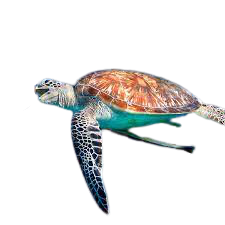
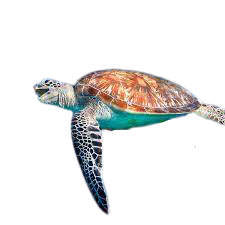
Turtle moved in the aquarium

Changed region(s): [[0.4978, 0.56, 0.8711, 0.6844], [0.7156, 0.5289, 0.8089, 0.5911], [0.1244, 0.3733, 0.1556, 0.4044]]

diff --git a/breatheunderthewater.html b/breatheunderthewater.html
@@ -6,6 +6,7 @@
     <title>breathunderthewater</title>
     <meta name="viewport" content="width=device-width, initial-scale=1.0">
     <link rel="stylesheet" href="styles1.css">
+    <link rel="stylesheet" href="turtle.css">
     <p align="center">
         <!--This draws the Canvas on the webpage -->
         <canvas id="mycanvas"></canvas>
@@ -59,13 +60,13 @@
             </div>
         </div>
     </div>
-    <div class='scene2'>
+    <!-- <div class='scene2'>
         <div class='wrapper2'>
-            <div class='turtlingsss'>
-        <div class='turtling'><img src="image/turtle/t0.png" /></div>
-        <div class='turtling'><img src="image/turtle/t1.png" /></div>
-        <div class='turtling'><img src="image/turtle/t3.png" /></div>
-        <div class='turtling'><img src="image/turtle/t4.png" /></div>
+            <div class='turtlingsss'> -->
+        <div class='turtling0'><img src="image/turtle/t0.png" /></div>
+        <div class='turtling1'><img src="image/turtle/t1.png" /></div>
+        <div class='turtling3'><img src="image/turtle/t3.png" /></div>
+        <div class='turtling4'><img src="image/turtle/t4.png" /></div>
         <div class='turtling'><img src="image/turtle/t5.png" /></div>
         <div class='turtling'><img src="image/turtle/t6.png" /></div>
         <div class='turtling'><img src="image/turtle/t7.png" /></div>
@@ -78,15 +79,16 @@
         <div class='turtling'><img src="image/turtle/t5.png" /></div>
         <div class='turtling'><img src="image/turtle/t6.png" /></div>
         <div class='turtling'><img src="image/turtle/t7.png" /></div>
-        <div class='turtling'><img src="image/turtle/t8.png" /></div>
-        <div class='turtling'><img src="image/turtle/t11.png" /></div>
-            </div>
+        <div class='turtling8'><img src="image/turtle/t8.png" /></div>
+        <div class='turtling11'><img src="image/turtle/t11.png" /></div>
+            <!-- </div>
         </div>
-    </div>
+    </div> -->
     <h1> Wearing mask, people seem to breathe under the water.</h1>
 
     <h2> 你本是水，要归于水。于是雨收敛了最初的锋芒，汇成溪流，注入河中..</h2>
     <img class="shark" src="image/shark.png" width=400px;></img>
+    <img class="facai2" src="image/facai2.png" width=400px;></img>
     <img class="shark2" src="image/shark2.png" width=400px;></img>
     <img class="stingay" src="stingay.png" width=280px;></img>
     <img class="seastar" src="seaStar.png" width=200px;></img>

diff --git a/turtle.css b/turtle.css
@@ -1,0 +1,132 @@
+.turtling3{
+    position: absolute;
+    top: 80%;
+    right: 5%;
+    z-index: 9;
+    width: 50px;
+    height: 60px;
+    opacity: 0.9;    
+    animation:  animateTurtling 30s linear infinite;    
+}
+
+@keyframes animateTurtling {
+    0% {
+        top: 80%;
+        right: 5%;
+        opacity: 0.9;
+        transform: rotateX(0deg);
+    }
+
+    12%{        
+        top: 80%;
+        right: 16%;
+        opacity: 0;
+    }
+    25% {
+        top: 80%;
+        right: 25%;
+        opacity: 0.9;
+       
+    }
+    37%{
+        top: 80%;
+        right: 37%;
+        opacity: 0;
+    }
+
+    50% {
+        top: 80%;
+        right: 50%;        
+        opacity: 0.9;
+    }
+
+    63%{        
+        top: 80%;
+        right: 63%;
+        opacity: 0;
+    }
+    75% {
+        top: 80%;
+        right: 75%;
+        opacity: 0.9;
+       
+    }
+    87%{top: 80%;
+        right: 87%;
+        opacity: 0;
+    }
+    100% {
+        top: 80%;
+        right: 113%;
+        opacity: 0.9;
+       
+    }
+}
+.turtling4 {
+    position: absolute;
+    top: 80%;
+    right: 5%;
+    z-index: 9;
+    width: 50px;
+    height: 60px;
+    opacity: 0.9;    
+    animation:  animateTurtling4 30s linear infinite;    
+}
+@keyframes animateTurtling4 {
+
+    0%{
+        top: 80%;
+        right: 5%;
+        opacity: 0;
+    }
+    13% {
+        top: 80%;
+        right: 16%;
+        opacity: 0.9;
+        transform: rotateX(0deg);
+    }
+    25%{top: 80%;
+        right: 25%;
+        opacity: 0;
+    }
+    
+    37% {
+        top: 80%;
+        right: 37%;
+        opacity: 0.9;
+        transform: rotateX(20deg);
+         transform: rotateY(45deg);
+    }
+   50%{      
+    top: 80%;
+        right: 50%;
+        opacity: 0;
+    }
+    
+
+    63% {
+        top: 80%;
+        right: 63%;
+        transform: rotateX(60deg);
+        transform: rotateY(30deg);
+        opacity: 0.9;
+    }
+
+    75%{top: 80%;
+        right: 75%;
+        opacity: 0;
+    }
+    87% {
+        top: 80%;
+        right: 87%;
+        opacity: 0.9;
+        transform: rotateX(30deg);
+        transform: rotateY(45deg);
+    }
+    100%{
+        opacity: 0;
+        top: 80%;
+        right: 113%;
+    }
+    
+}

diff --git a/styles1.css b/styles1.css
@@ -90,65 +90,12 @@
     border-radius: 50%;
     animation: pulse 12s infinite cubic-bezier(0.645, 0.045, 0.355, 1);
 }
-animateSeaAnimal
-/* .wrapper2 {
-    width: 80%;
-    height: 80%;
-    /* transform-style: preserve-3d; */
-    /* animation: drift 80s infinite linear; */
-    z-index: 9;
-} */
-/* .turtlingsss {
-    position: relative;
-    width: 400px;
-    height: 600px;
-    margin: 0 auto;
-    /* transform-style: preserve-3d; */
-    /* animation:  12s infinite eanimateSeaAnimal; */
-} */
-.turtling {
-    position: absolute;
-    top: 60%;
-    right: 30px;
-    width: 50px;
-    height: 50%;
-    opacity: 0.9;    
-    animation:  animateSeaAnimal 20s linear infinite;
-    
-}
-@keyframes animateSeaAnimal {
-    0% {
-        top: 65%;
-        lright: 5%;
-    }
-    25% {
-        top: 65%;
-        right: 25%;
-    }
-    50% {
-        top: 65%;
-        right: 50%;
-    }
-    66% {
-        top: 65%;
-        right: 75%;
-    }
-    100% {
-        top: 65%;
-        right: 113%;
-    }
-}
-.turtling:nth-child(1) {
-    position:absolute;
-    top:30%;
-    right: +3%;
-    transform: rotateX(0deg);
-    animation:  12s infinite animateSeaAnimal;
-}
 
-.turtling:nth-child(2) {
+
+
+/*.turtling1:nth-child(2) {
     transform: rotateX(0deg);
-    animation:  12s infinite animateSeaAnimal;
+    animation:  12s infinite animateSeaAnimal infinite;
 }
 
 .jturtling:nth-child(3) {
@@ -178,7 +125,7 @@ animateSeaAnimal
 
 .turtling:nth-child(8) {
     transform: rotateY(0deg);
-    animation:  12s infinite animateSeaAnimal);
+    animation:  12s infinite animateSeaAnimal;
 }
 
 .turtling:nth-child(9) {
@@ -196,7 +143,7 @@ animateSeaAnimal
     animation:  12s infinite animateSeaAnimal;
 }
 
-.jturtling:nth-child(12) {
+.turtling:nth-child(12) {
     transform: rotateY(0deg);
     animation: pulse 12s infinite animateSeaAnimal;
 }
@@ -219,7 +166,7 @@ animateSeaAnimal
 .turtling:nth-child(16) {
     transform: rotateY(0deg);
     animation: pulse 12s infinite animateSeaAnimal;
-}
+} */
 
 .jellyfish_ring:nth-child(1) {
     transform: rotateY(22.5deg);

diff --git a/aquarium.html b/aquarium.html
@@ -6,6 +6,7 @@
     <title>AquariumForKids</title>
     <meta name="viewport" content="width=device-width, initial-scale=1.0">
     <link rel="stylesheet" href="styles1.css">
+    <link rel="stylesheet" href="turtle.css">
     <p align="center">
         <!--This draws the Canvas on the webpage -->
         <canvas id="mycanvas"></canvas>
@@ -69,7 +70,8 @@ Here flowing fall.<br></h1> -->
     <!-- <!-- <h2>  你本是水，要归于水。于是雨收敛了最初的锋芒，汇成溪流，注入河中."
     </h2> -->
     -->
-
+<div class='turtling3'><img src="image/turtle/t3.png" /></div>
+<div class='turtling4'><img src="image/turtle/t4.png" /></div>
     <img class="shark" src="image/shark.png" width=400px;>
     </img>
     <img class="shark2" src="image/shark2.png" width=400px;></img>
